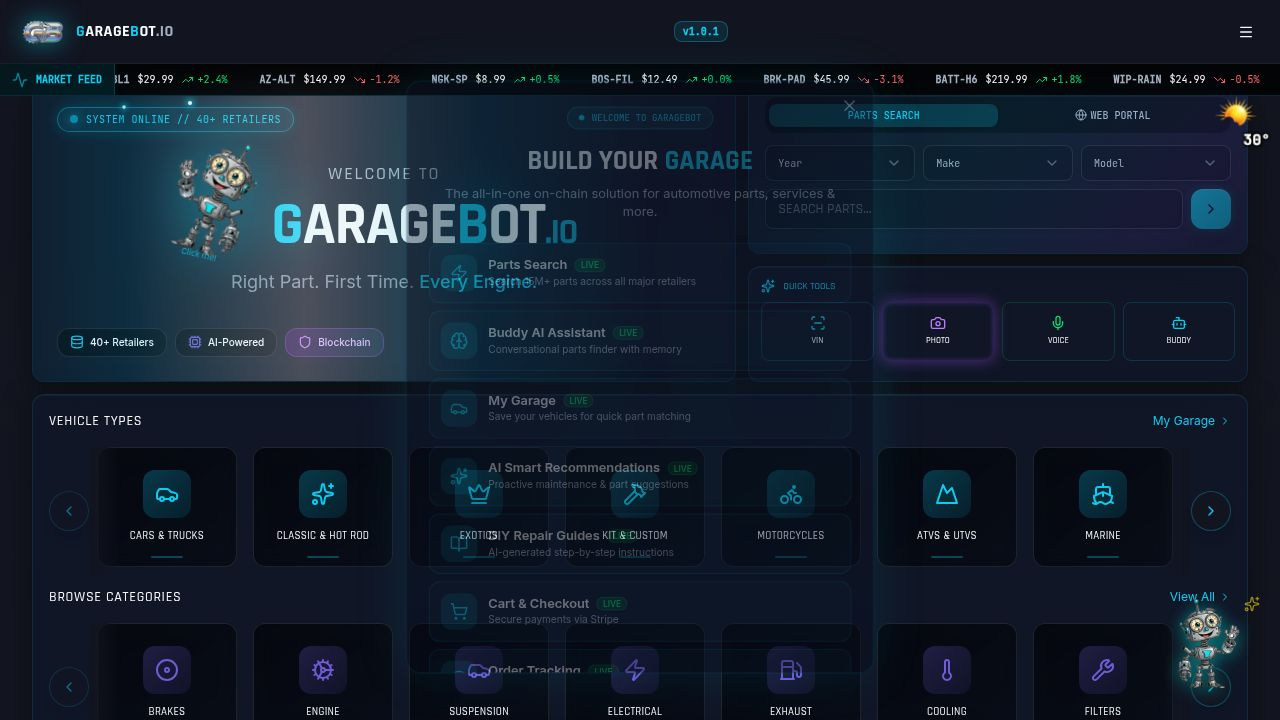
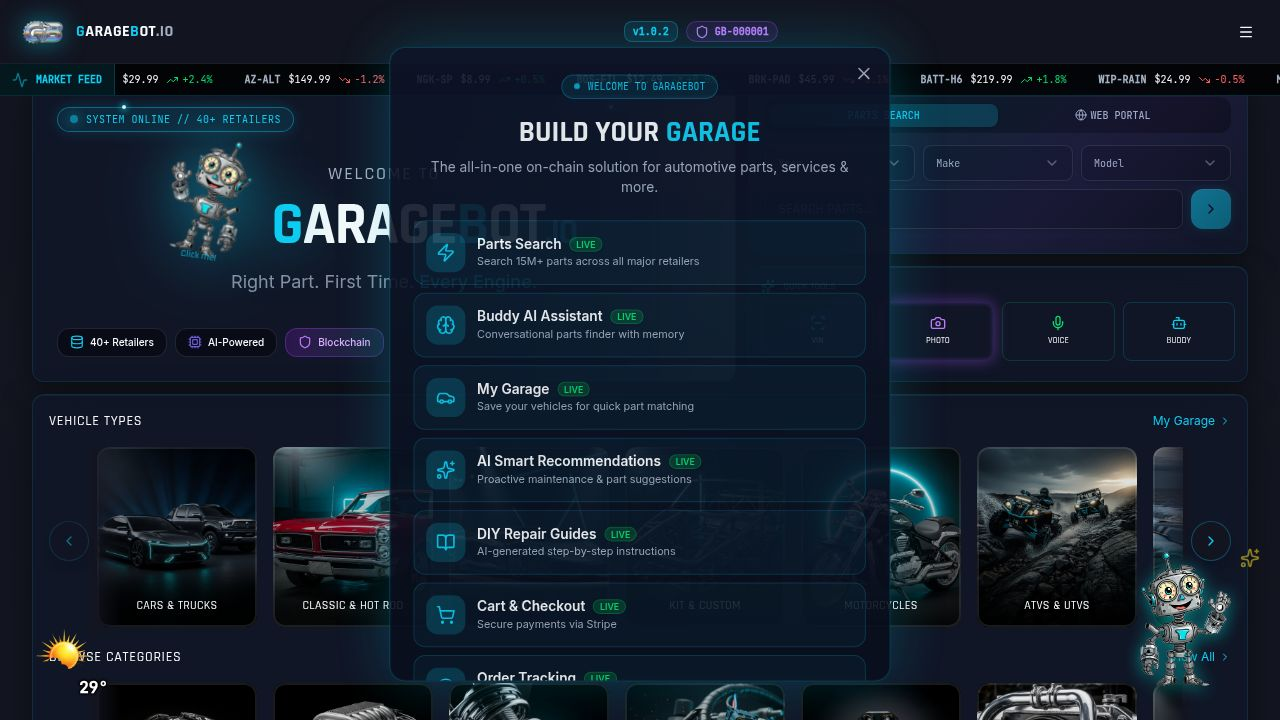
Ensure all popups and modals display with full opacity and proper layering
Update z-index to [100] and set opacity to 1 for alert dialog, dialog, drawer, and popover components. Remove transparent overlay background from DrawerOverlay. Change background to `bg-card` for solid modal backgrounds.

Replit-Commit-Author: Agent
Replit-Commit-Session-Id: 53616f38-5e49-47f4-807d-edcded36485b
Replit-Commit-Checkpoint-Type: full_checkpoint
Replit-Commit-Event-Id: cddb14ac-7e06-4d67-9798-e7ba71210959
Replit-Commit-Screenshot-Url: https://storage.googleapis.com/screenshot-production-us-central1/61f82902-728d-4d48-9085-7700c909b4d3/53616f38-5e49-47f4-807d-edcded36485b/jfwsRZ6

diff --git a/client/src/components/ui/dialog.tsx b/client/src/components/ui/dialog.tsx
@@ -36,9 +36,10 @@ const DialogContent = React.forwardRef<
     <DialogPrimitive.Content
       ref={ref}
       className={cn(
-        "fixed left-[50%] top-[50%] z-50 grid w-[calc(100%-2rem)] max-w-lg translate-x-[-50%] translate-y-[-50%] gap-4 border bg-background p-4 sm:p-6 shadow-[0_0_60px_rgba(6,182,212,0.3)] duration-200 max-h-[85vh] overflow-y-auto data-[state=open]:animate-in data-[state=closed]:animate-out data-[state=closed]:fade-out-0 data-[state=open]:fade-in-0 data-[state=closed]:zoom-out-95 data-[state=open]:zoom-in-95 data-[state=closed]:slide-out-to-left-1/2 data-[state=closed]:slide-out-to-top-[48%] data-[state=open]:slide-in-from-left-1/2 data-[state=open]:slide-in-from-top-[48%] rounded-lg pointer-events-auto",
+        "fixed left-[50%] top-[50%] z-[100] grid w-[calc(100%-2rem)] max-w-lg translate-x-[-50%] translate-y-[-50%] gap-4 border bg-card p-4 sm:p-6 shadow-[0_0_60px_rgba(6,182,212,0.3)] duration-200 max-h-[85vh] overflow-y-auto data-[state=open]:animate-in data-[state=closed]:animate-out data-[state=closed]:fade-out-0 data-[state=open]:fade-in-0 data-[state=closed]:zoom-out-95 data-[state=open]:zoom-in-95 data-[state=closed]:slide-out-to-left-1/2 data-[state=closed]:slide-out-to-top-[48%] data-[state=open]:slide-in-from-left-1/2 data-[state=open]:slide-in-from-top-[48%] rounded-lg pointer-events-auto",
         className
       )}
+      style={{ opacity: 1 }}
       {...props}
     >
       {children}

diff --git a/client/src/components/ui/alert-dialog.tsx b/client/src/components/ui/alert-dialog.tsx
@@ -34,9 +34,10 @@ const AlertDialogContent = React.forwardRef<
     <AlertDialogPrimitive.Content
       ref={ref}
       className={cn(
-        "fixed left-[50%] top-[50%] z-50 grid w-full max-w-lg translate-x-[-50%] translate-y-[-50%] gap-4 border bg-background p-6 shadow-[0_0_60px_rgba(6,182,212,0.3)] duration-200 data-[state=open]:animate-in data-[state=closed]:animate-out data-[state=closed]:fade-out-0 data-[state=open]:fade-in-0 data-[state=closed]:zoom-out-95 data-[state=open]:zoom-in-95 data-[state=closed]:slide-out-to-left-1/2 data-[state=closed]:slide-out-to-top-[48%] data-[state=open]:slide-in-from-left-1/2 data-[state=open]:slide-in-from-top-[48%] sm:rounded-lg pointer-events-auto",
+        "fixed left-[50%] top-[50%] z-[100] grid w-full max-w-lg translate-x-[-50%] translate-y-[-50%] gap-4 border bg-card p-6 shadow-[0_0_60px_rgba(6,182,212,0.3)] duration-200 data-[state=open]:animate-in data-[state=closed]:animate-out data-[state=closed]:fade-out-0 data-[state=open]:fade-in-0 data-[state=closed]:zoom-out-95 data-[state=open]:zoom-in-95 data-[state=closed]:slide-out-to-left-1/2 data-[state=closed]:slide-out-to-top-[48%] data-[state=open]:slide-in-from-left-1/2 data-[state=open]:slide-in-from-top-[48%] sm:rounded-lg pointer-events-auto",
         className
       )}
+      style={{ opacity: 1 }}
       {...props}
     />
   </AlertDialogPortal>

diff --git a/client/src/components/ui/popover.tsx b/client/src/components/ui/popover.tsx
@@ -19,9 +19,10 @@ const PopoverContent = React.forwardRef<
       align={align}
       sideOffset={sideOffset}
       className={cn(
-        "z-50 w-72 rounded-md border bg-popover p-4 text-popover-foreground shadow-md outline-none data-[state=open]:animate-in data-[state=closed]:animate-out data-[state=closed]:fade-out-0 data-[state=open]:fade-in-0 data-[state=closed]:zoom-out-95 data-[state=open]:zoom-in-95 data-[side=bottom]:slide-in-from-top-2 data-[side=left]:slide-in-from-right-2 data-[side=right]:slide-in-from-left-2 data-[side=top]:slide-in-from-bottom-2 origin-[--radix-popover-content-transform-origin]",
+        "z-[100] w-72 rounded-md border bg-card p-4 text-popover-foreground shadow-md outline-none data-[state=open]:animate-in data-[state=closed]:animate-out data-[state=closed]:fade-out-0 data-[state=open]:fade-in-0 data-[state=closed]:zoom-out-95 data-[state=open]:zoom-in-95 data-[side=bottom]:slide-in-from-top-2 data-[side=left]:slide-in-from-right-2 data-[side=right]:slide-in-from-left-2 data-[side=top]:slide-in-from-bottom-2 origin-[--radix-popover-content-transform-origin]",
         className
       )}
+      style={{ opacity: 1 }}
       {...props}
     />
   </PopoverPrimitive.Portal>

diff --git a/client/src/components/ui/drawer.tsx b/client/src/components/ui/drawer.tsx
@@ -26,7 +26,7 @@ const DrawerOverlay = React.forwardRef<
 >(({ className, ...props }, ref) => (
   <DrawerPrimitive.Overlay
     ref={ref}
-    className={cn("fixed inset-0 z-[70] bg-black/20", className)}
+    className={cn("fixed inset-0 z-[70]", className)}
     {...props}
   />
 ))
@@ -44,6 +44,7 @@ const DrawerContent = React.forwardRef<
         "fixed inset-x-0 bottom-0 z-[80] mt-24 flex h-auto flex-col rounded-t-[10px] border border-primary/30 bg-card shadow-[0_0_60px_rgba(6,182,212,0.4)]",
         className
       )}
+      style={{ opacity: 1 }}
       {...props}
     >
       <div className="mx-auto mt-4 h-2 w-[100px] rounded-full bg-primary/30" />
